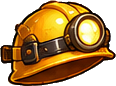
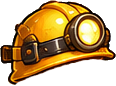
fix(aparencia): chapeus recortados (sem o interior) - amarelo/vermelho/viking/mago agora na frente, assentados

Changed region(s): [[0.1293, 0.6744, 0.9052, 1.0]]

diff --git a/script/customizacao.js b/script/customizacao.js
@@ -22,12 +22,12 @@ const APARENCIA_SLOTS = [
         vazio: "Sem chapéu",
         ancora: { x: 50, y: 30, largura: 53 },
         itens: [
-            { id: "amarelo", nome: "Capacete amarelo", arquivo: "chapeu-01.png", flip: true, tras: true },
+            { id: "amarelo", nome: "Capacete amarelo", arquivo: "chapeu-01.png", flip: true },
             { id: "escuro", nome: "Capacete escuro", arquivo: "chapeu-02.png", flip: true },
             { id: "vermelho", nome: "Capacete vermelho", arquivo: "chapeu-03.png", flip: true },
             { id: "verde", nome: "Capacete verde", arquivo: "chapeu-04.png", flip: true },
-            { id: "viking", nome: "Capacete viking", arquivo: "chapeu-05.png", flip: true, tras: true },
-            { id: "mago", nome: "Chapéu de mago", arquivo: "chapeu-06.png", flip: true, tras: true },
+            { id: "viking", nome: "Capacete viking", arquivo: "chapeu-05.png", flip: true },
+            { id: "mago", nome: "Chapéu de mago", arquivo: "chapeu-06.png", flip: true },
             { id: "palha", nome: "Chapéu de palha", arquivo: "chapeu-07.png" },
             { id: "pirata", nome: "Chapéu de pirata", arquivo: "chapeu-08.png", flip: true }
         ]
